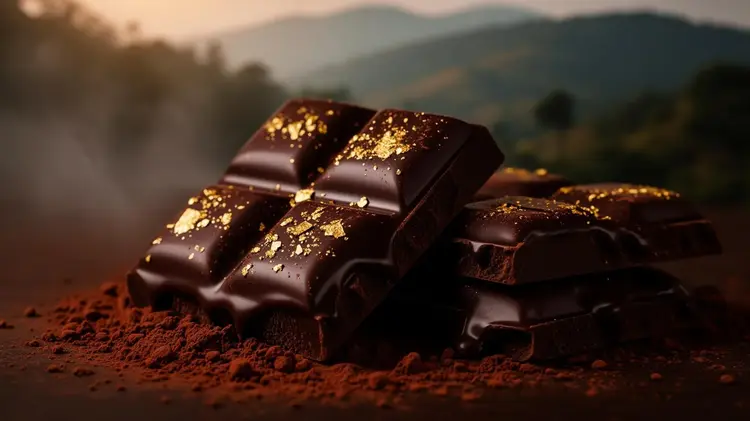
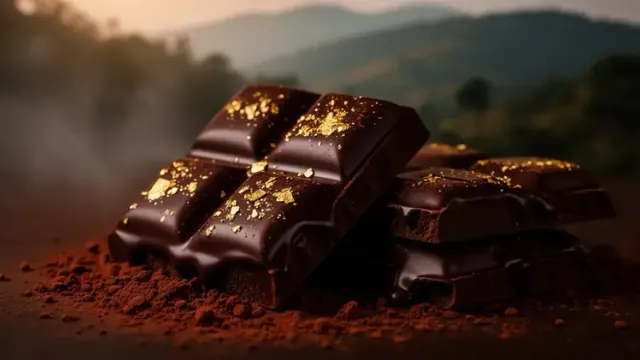
mobile performance optimization

diff --git a/src/components/SiteLayout.tsx b/src/components/SiteLayout.tsx
@@ -63,7 +63,7 @@ function FloatingNav() {
             }`}
         >
           <Link to="/" className="flex items-center gap-2 group">
-            <img src={logoImg} alt="ETERNITY Logo" className="h-9 w-auto object-contain theme-logo" />
+            <img src={logoImg} alt="ETERNITY Logo" width={133} height={36} decoding="async" className="h-9 w-auto object-contain theme-logo" />
             <span className="font-display text-lg md:text-xl tracking-wide">
               ETERNITY
             </span>
@@ -340,7 +340,7 @@ function Footer() {
       <div className="container mx-auto px-6 py-16 grid gap-12 md:grid-cols-4">
         <div className="md:col-span-2">
           <Link to="/" className="flex items-center gap-3">
-            <img src={logoImg} alt="ETERNITY Logo" className="h-10 w-auto object-contain theme-logo" />
+            <img src={logoImg} alt="ETERNITY Logo" width={133} height={40} loading="lazy" decoding="async" className="h-10 w-auto object-contain theme-logo" />
             <span className="font-display text-2xl">ETERNITY</span>
           </Link>
           <p className="mt-5 max-w-md text-[oklch(0.94_0.02_80/0.7)] leading-relaxed">

diff --git a/src/routes/__root.tsx b/src/routes/__root.tsx
@@ -104,6 +104,7 @@ export const Route = createRootRouteWithContext<{ queryClient: QueryClient }>()(
     ],
     links: [
       { rel: "icon", href: logoImg },
+      { rel: "preload", as: "style", href: appCss },
       { rel: "stylesheet", href: appCss },
       { rel: "preconnect", href: "https://fonts.googleapis.com" },
       { rel: "preconnect", href: "https://fonts.gstatic.com", crossOrigin: "anonymous" },
@@ -117,6 +118,8 @@ export const Route = createRootRouteWithContext<{ queryClient: QueryClient }>()(
       {
         rel: "stylesheet",
         href: "https://fonts.googleapis.com/css2?family=Cormorant+Garamond:wght@400;500;600;700&family=Inter:wght@300;400;500;600&display=swap",
+        media: "print",
+        onLoad: "this.media='all'",
       },
     ],
   }),

diff --git a/src/routes/index.tsx b/src/routes/index.tsx
@@ -158,7 +158,7 @@ function Home() {
       <section className="relative min-h-[92vh] flex items-center overflow-hidden">
         <div className="absolute inset-0">
           <picture>
-            <source media="(max-width: 640px)" srcSet={heroMobileImg} type="image/webp" />
+            <source media="(max-width: 640px)" srcSet={heroMobileImg} type="image/webp" width={640} height={360} />
             <img
               src={heroImg}
               alt="Handcrafted chocolate bars dusted with gold against the misty Ooty hills"

diff --git a/src/components/CartContext.tsx b/src/components/CartContext.tsx
@@ -120,6 +120,7 @@ export function CartProvider({ children }: { children: ReactNode }) {
       return mapped;
     },
     staleTime: 1000 * 60 * 5,
+    enabled: items.length > 0,
     refetchOnMount: false,
     refetchOnWindowFocus: false,
   });
